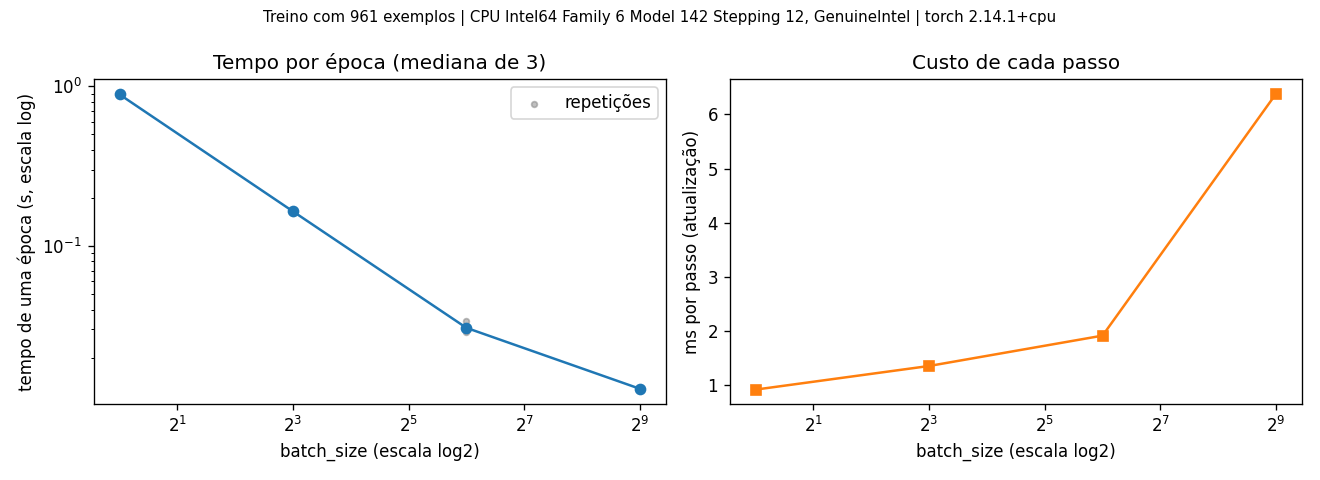
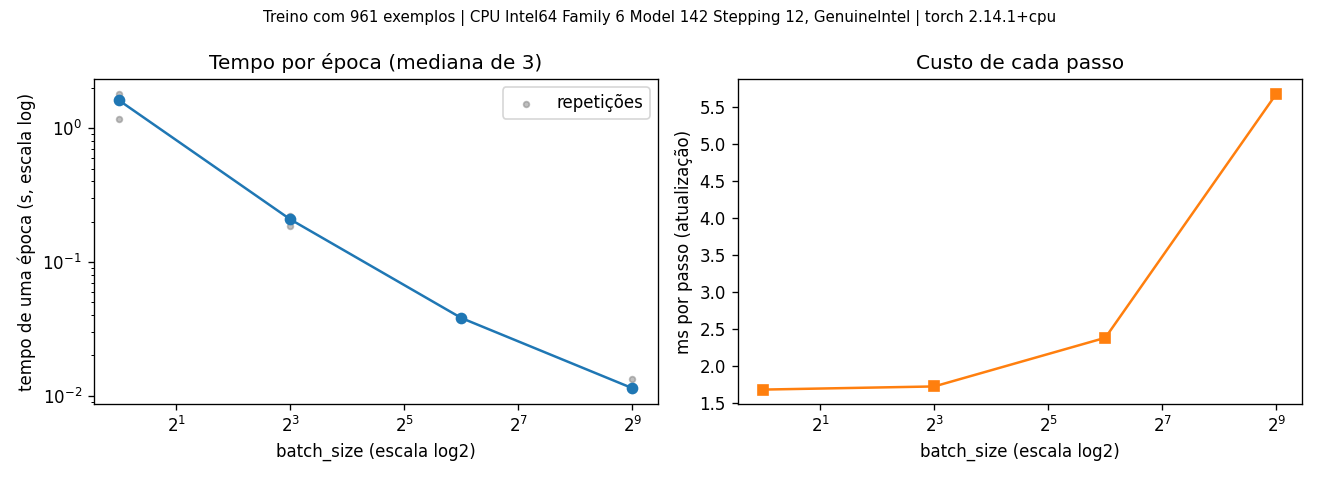
ajustes

diff --git a/USO-DE-IA.md b/USO-DE-IA.md
@@ -6,7 +6,7 @@ Declare se utilizou IA. Se não utilizou, escreva explicitamente “Não utilize
 
 | Ferramenta/modelo | Finalidade e pedido | Trecho ou ideia aproveitada | Como verifiquei | O que descartei e por quê |
 |---|---|---|---|---|
-| Claude | Ajuda na implementação do B2 |  | | |
+| Claude | Ajuda na implementação | | | |
 
 ## Declaração
 [Após revisar, registre se é capaz de explicar todas as linhas e decisões do trabalho entregue.]
